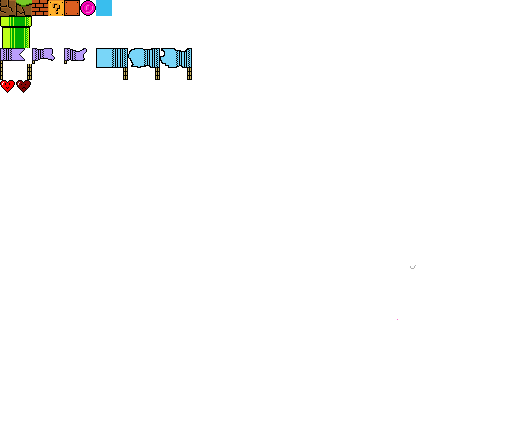
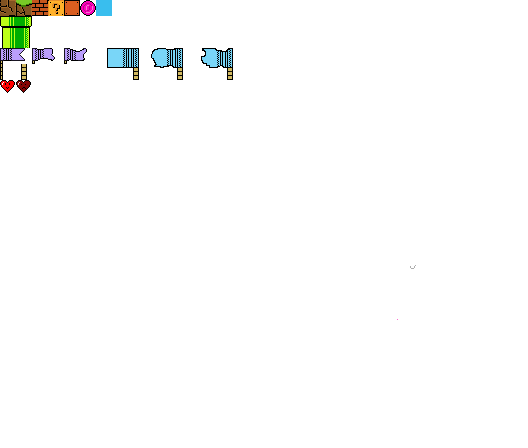
flag with collision

Changed region(s): [[0.1818, 0.0938, 0.4545, 0.1875], [0.0303, 0.125, 0.0606, 0.1875]]

diff --git a/src/tiles/tiles/flag.ts b/src/tiles/tiles/flag.ts
@@ -23,7 +23,7 @@ const handleY: TileColliderHandler = ({
 }) => {
   if (entity.vel.y > 0) {
     if (entity.bounds.bottom > match.y1) {
-      entity.obstruct(Side.bottom, match)
+      entity.winAnimation(Side.bottom, match)
     }
   } else if (entity.vel.y < 0) {
     if (entity.getTrait(Player)) {
@@ -32,7 +32,7 @@ const handleY: TileColliderHandler = ({
     }
 
     if (entity.bounds.top < match.y2) {
-      entity.obstruct(Side.top, match)
+      entity.winAnimation(Side.top, match)
     }
   }
 }

diff --git a/src/traits/trait.ts b/src/traits/trait.ts
@@ -40,4 +40,5 @@ export abstract class Trait {
   update(entity: Entity, gameContext: GameContext, level: Level) {}
   obstruct(entity: Entity, side: Side, match: TileResolverMatch) {}
   collides(us: Entity, them: Entity) {}
+  winAnimation(entity: Entity, side: Side, match: TileResolverMatch) {}
 }

diff --git a/src/entity/entity.ts b/src/entity/entity.ts
@@ -79,4 +79,10 @@ export class Entity {
       trait.collides(this, candidate)
     })
   }
+
+  winAnimation(side: Side, match: TileResolverMatch) {
+    this.traits.forEach((trait) => {
+      trait.winAnimation(this, side, match)
+    })
+  }
 }
